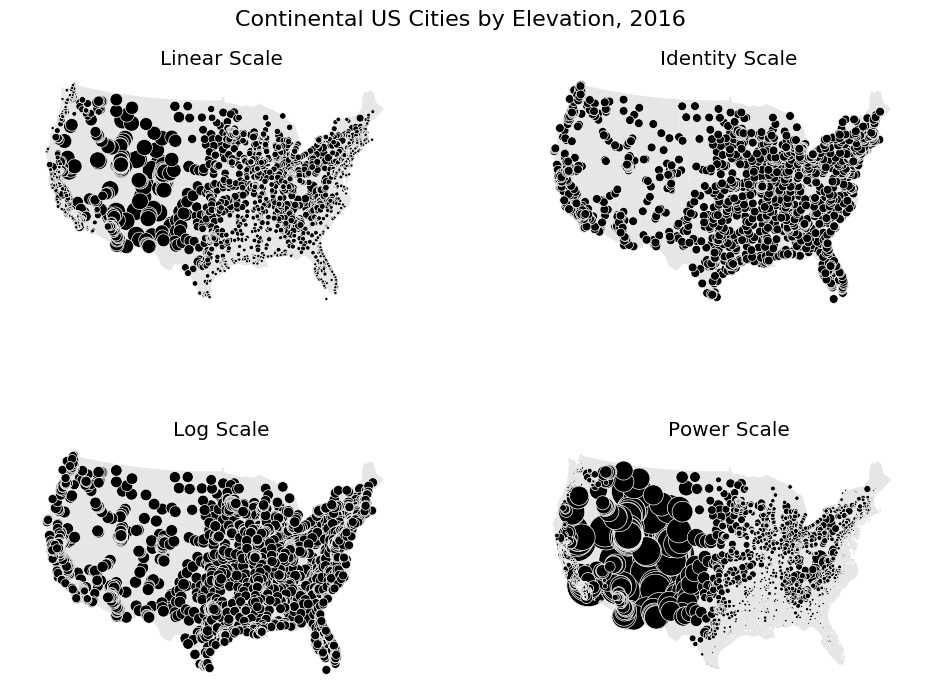
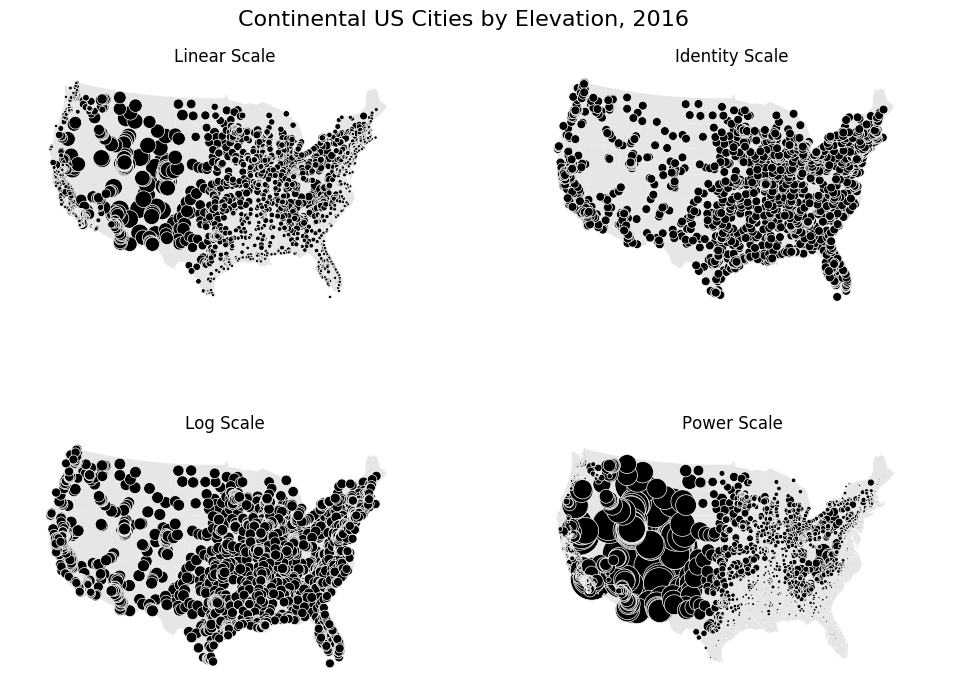
Use quilt to manage package data.

diff --git a/docs/examples/usa-city-elevations.py b/docs/examples/usa-city-elevations.py
@@ -1,20 +1,20 @@
-import sys; sys.path.insert(0, '../')
-import geoplot as gplt
-import geoplot.crs as gcrs
-import numpy as np
-import matplotlib.pyplot as plt
-
 # This example plots United States cities by their elevation. Several different possible scaling functions for
 # determining point size are demonstrated.
 
 
-# Shape the data.
-import pdb; pdb.set_trace()
-cities = gplt.datasets.load('usa-cities')
-continental_usa = gplt.datasets.load('contiguous-usa')
+# Load the data.
+import geopandas as gpd
+from quilt.data.ResidentMario import geoplot_data
+
+cities = gpd.read_file(geoplot_data.usa_cities())
+contiguous_usa = gpd.read_file(geoplot_data.contiguous_usa())
 
 
 # Plot the data.
+import geoplot as gplt
+import geoplot.crs as gcrs
+import numpy as np
+import matplotlib.pyplot as plt
 
 f, axarr = plt.subplots(2, 2, figsize=(12, 8), subplot_kw={
     'projection': gcrs.AlbersEqualArea(central_longitude=-98, central_latitude=39.5)
@@ -33,7 +33,7 @@ ylim = (-1647757.3894385984, 1457718.4893930717)
 
 # Our first plot is a default linear-scale one. We can see from the results that this is clearly the most appropriate
 # one for this specific data.
-gplt.polyplot(continental_usa.geometry, ax=axarr[0][0], **polyplot_kwargs)
+gplt.polyplot(contiguous_usa.geometry, ax=axarr[0][0], **polyplot_kwargs)
 gplt.pointplot(cities.query("POP_2010 > 10000"), ax=axarr[0][0], limits=(0.1, 10), **pointplot_kwargs)
 axarr[0][0].set_title("Linear Scale")
 axarr[0][0].set_ylim(ylim)
@@ -45,7 +45,7 @@ def identity_scale(minval, maxval):
         return 2
     return scalar
 
-gplt.polyplot(continental_usa.geometry, ax=axarr[0][1], **polyplot_kwargs)
+gplt.polyplot(contiguous_usa.geometry, ax=axarr[0][1], **polyplot_kwargs)
 gplt.pointplot(cities.query("POP_2010 > 10000"), ax=axarr[0][1], scale_func=identity_scale, **pointplot_kwargs)
 axarr[0][1].set_title("Identity Scale")
 axarr[0][1].set_ylim(ylim)
@@ -62,7 +62,7 @@ def log_scale(minval, maxval):
         return np.log10(val)
     return scalar
 
-gplt.polyplot(continental_usa.geometry, ax=axarr[1][0], **polyplot_kwargs)
+gplt.polyplot(contiguous_usa.geometry, ax=axarr[1][0], **polyplot_kwargs)
 gplt.pointplot(cities.query("POP_2010 > 10000"), ax=axarr[1][0], scale_func=log_scale, **pointplot_kwargs)
 axarr[1][0].set_title("Log Scale")
 axarr[1][0].set_ylim(ylim)
@@ -77,7 +77,7 @@ def power_scale(minval, maxval):
         return (val/1000)**2
     return scalar
 
-gplt.polyplot(continental_usa.geometry, ax=axarr[1][1], **polyplot_kwargs)
+gplt.polyplot(contiguous_usa.geometry, ax=axarr[1][1], **polyplot_kwargs)
 gplt.pointplot(cities.query("POP_2010 > 10000"), ax=axarr[1][1], scale_func=power_scale, **pointplot_kwargs)
 axarr[1][1].set_title("Power Scale")
 axarr[1][1].set_ylim(ylim)

diff --git a/docs/examples/obesity.py b/docs/examples/obesity.py
@@ -1,17 +1,12 @@
-import sys; sys.path.insert(0, '../')
-import geoplot as gplt
-import geoplot.crs as gcrs
-import matplotlib.pyplot as plt
-
-
 # This examples was inspired by https://bl.ocks.org/mbostock/4055908
 
-# Shape the data.
-obesity = gplt.datasets.load('obesity-by-state')
-# usa = gpd.read_file("../../data/united_states/usa.geojson")
-# continental_usa = usa[~usa['adm1_code'].isin(['USA-3517', 'USA-3563'])]
-continental_usa = gplt.datasets.load('contiguous-usa')
-continental_usa['State'] = [
+# Load the data.
+import geopandas as gpd
+from quilt.data.ResidentMario import geoplot_data
+
+obesity = geoplot_data.obesity_by_state()
+contiguous_usa = gpd.read_file(geoplot_data.contiguous_usa())
+contiguous_usa['State'] = [
     'Minnesota', 'Montana', 'North Dakota', 'Idaho', 'Washington', 'Arizona',
     'California', 'Colorado', 'Nevada', 'New Mexico', 'Oregon', 'Utah', 'Wyoming',
     'Arkansas', 'Iowa', 'Kansas', 'Missouri', 'Nebraska', 'Oklahoma', 'South Dakota',
@@ -21,13 +16,17 @@ continental_usa['State'] = [
     'Tennessee', 'Virginia', 'Wisconsin', 'West Virginia', 'Delaware', 'District of Columbia',
     'Maryland', 'New Jersey', 'New York', 'Pennsylvania', 'Maine', 'Michigan'
 ]
-continental_usa['Obesity Rate'] = continental_usa['State'].map(
+contiguous_usa['Obesity Rate'] = contiguous_usa['State'].map(
     lambda state: obesity.query("State == @state").iloc[0]['Percent']
 )
 
 
 # Plot the data.
-ax = gplt.cartogram(continental_usa, scale='Obesity Rate',
+import geoplot as gplt
+import geoplot.crs as gcrs
+import matplotlib.pyplot as plt
+
+ax = gplt.cartogram(contiguous_usa, scale='Obesity Rate',
                     projection=gcrs.AlbersEqualArea(central_longitude=-98, central_latitude=39.5),
                     limits=(0.75, 1),
                     linewidth=0.5, facecolor='steelblue', trace_kwargs={'linewidth': 0.5})

diff --git a/docs/examples/nyc-parking-tickets.py b/docs/examples/nyc-parking-tickets.py
@@ -1,21 +1,23 @@
-import sys; sys.path.insert(0, '../')
-import geoplot as gplt
-import geoplot.crs as gcrs
-import matplotlib.pyplot as plt
+# Load the data.
+import geopandas as gpd
+from quilt.data.ResidentMario import geoplot_data
 
+boroughs = gpd.read_file(geoplot_data.nyc_boroughs())
+precincts = gpd.read_file(geoplot_data.nyc_police_precincts())
+tickets = gpd.read_file(geoplot_data.nyc_parking_tickets_sample())
 
 # This example inspired by:
 # http://iquantny.tumblr.com/post/84393789169/californians-love-brooklyn-new-jerseyans-love
 
 
-# Load the data.
-precincts = gplt.datasets.load('nyc-police-precincts')
-tickets = gplt.datasets.load('nyc-parking-tickets-sample')
-boroughs = gplt.datasets.load('nyc-boroughs')
+# Plot the data.
+import geoplot as gplt
+import geoplot.crs as gcrs
+import matplotlib.pyplot as plt
 
 
-# This function is a reusable wrapper for plotting the data.
 def plot_state_to_ax(state, ax):
+    """Reusable plotting wrapper."""
     gplt.choropleth(tickets.set_index('id').loc[:, [state, 'geometry']],
                     hue=state,
                     projection=gcrs.AlbersEqualArea(), cmap='Blues',

diff --git a/docs/examples/minard-napoleon-russia.py b/docs/examples/minard-napoleon-russia.py
@@ -1,16 +1,17 @@
-import sys; sys.path.insert(0, '../../')
+# Load the data.
+import geopandas as gpd
+from quilt.data.ResidentMario import geoplot_data
+
+troop_movements = gpd.read_file(geoplot_data.napoleon_troop_movements())
+troop_movements['from'] = troop_movements.geometry.map(lambda v: v[0])
+troop_movements['to'] = troop_movements.geometry.map(lambda v: v[1])
+
+
+# Plot the data. We'll use a custom colormap, to match the one that Minard uses.
 import geoplot as gplt
 import matplotlib.pyplot as plt
 import mplleaflet
 
-
-# Shape the data.
-import pdb; pdb.set_trace()
-troop_movements = gplt.datasets.load('napoleon-troop-movements')
-troop_movements['from'] = troop_movements.geometry.map(lambda v: v[0])
-troop_movements['to'] = troop_movements.geometry.map(lambda v: v[1])
-
-# Plot the data. We'll use a custom colormap, to match the one that Minard uses.
 from matplotlib.colors import LinearSegmentedColormap
 colors = [(215/255, 193/255, 126/255), (37/255, 37/255, 37/255)]
 cm = LinearSegmentedColormap.from_list('minard', colors)

diff --git a/docs/examples/los-angeles-flights.py b/docs/examples/los-angeles-flights.py
@@ -1,23 +1,25 @@
-import sys; sys.path.insert(0, '../')
-import geoplot as gplt
-import geoplot.crs as gcrs
-import pandas as pd
-import matplotlib.pyplot as plt
-import cartopy
-
 
 # This script demonstrates using the cartopy feature interface alongside geoplot.
 # For more information visit http://scitools.org.uk/cartopy/docs/latest/matplotlib/feature_interface.html.
 
 
-# Fetch the data.
-la_flights = gplt.datasets.load('la-flights')
+# Load the data.
+import geopandas as gpd
+from quilt.data.ResidentMario import geoplot_data
+
+la_flights = gpd.read_file(geoplot_data.la_flights())
 la_flights = la_flights.assign(
     start=la_flights.geometry.map(lambda mp: mp[0]),
     end=la_flights.geometry.map(lambda mp: mp[1])
 )
 
+
 # Plot the data.
+import geoplot as gplt
+import geoplot.crs as gcrs
+import matplotlib.pyplot as plt
+import cartopy
+
 f, axarr = plt.subplots(2, 2, figsize=(12, 12), subplot_kw={
     'projection': gcrs.Orthographic(central_latitude=40.7128, central_longitude=-74.0059)
 })

diff --git a/docs/examples/boston-airbnb-aggplot.py b/docs/examples/boston-airbnb-aggplot.py
@@ -1,19 +1,20 @@
-import sys; sys.path.insert(0, '../')
-import geoplot.crs as gcrs
-import geoplot as gplt
-import numpy as np
-import matplotlib.pyplot as plt
-
-
 # Load the data.
-boston_zip_codes = gplt.datasets.load('boston-zip-codes')
+from quilt.data.ResidentMario import geoplot_data
+import geopandas as gpd
+
+boston_zip_codes = gpd.read_file(geoplot_data.boston_zip_codes())
 boston_zip_codes = boston_zip_codes.assign(id=boston_zip_codes.id.astype(float)).set_index('id')
 
-listings = gplt.datasets.load('boston-airbnb-listings')
+listings = gpd.read_file(geoplot_data.boston_airbnb_listings())
 listings = listings.assign(zipcode=listings.zipcode.astype(float))
 
 
 # Plot the data.
+import geoplot as gplt
+import geoplot.crs as gcrs
+import numpy as np
+import matplotlib.pyplot as plt
+
 ax = gplt.polyplot(boston_zip_codes.geometry, projection=gcrs.AlbersEqualArea(),
                    facecolor='lightgray', edgecolor='gray', linewidth=0)
 

diff --git a/docs/examples/nyc-collisions-map.py b/docs/examples/nyc-collisions-map.py
@@ -1,17 +1,17 @@
-import sys; sys.path.insert(0, '../../')
+# Load the data.
 import geopandas as gpd
-import geoplot as gplt
-import geoplot.crs as gcrs
-import pandas as pd
-import matplotlib.pyplot as plt
-from shapely.geometry import Point
+from quilt.data.ResidentMario import geoplot_data
 
-# Fetch the data.
-boroughs = gplt.datasets.load('nyc-boroughs')
-fatal_collisions = gplt.datasets.load('nyc-fatal-collisions')
-injurious_collisions = gplt.datasets.load('nyc-injurious-collisions')
+boroughs = gpd.read_file(geoplot_data.nyc_boroughs())
+fatal_collisions = gpd.read_file(geoplot_data.nyc_fatal_collisions())
+injurious_collisions = gpd.read_file(geoplot_data.nyc_injurious_collisions())
+
 
 # Plot the data.
+import geoplot as gplt
+import geoplot.crs as gcrs
+import matplotlib.pyplot as plt
+
 fig = plt.figure(figsize=(10,5))
 
 ax1 = plt.subplot(121, projection=gcrs.AlbersEqualArea(central_latitude=40.7128, central_longitude=-74.0059))

diff --git a/docs/examples/dc-street-network.py b/docs/examples/dc-street-network.py
@@ -1,20 +1,15 @@
-import sys; sys.path.insert(0, '../')
-import geoplot as gplt
-import geoplot.crs as gcrs
-import geopandas as gpd
-import matplotlib.pyplot as plt
-
-
-# The data being used here is the DC portion of the Federal Highway Administration's roadway traffic volume
-# shapefiles, retrieved from http://www.fhwa.dot.gov/policyinformation/hpms/shapefiles.cfm. The AADT column of
-# interest here is the FHA's traffic volume estimates.
-
-
 # Load the data.
-dc = gplt.datasets.load('dc-roads')
+import geopandas as gpd
+from quilt.data.ResidentMario import geoplot_data
+
+dc = gpd.read_file(geoplot_data.dc_roads())
 
 
 # Plot the data.
+import geoplot as gplt
+import geoplot.crs as gcrs
+import matplotlib.pyplot as plt
+
 ax = gplt.sankey(dc, path=dc.geometry, projection=gcrs.AlbersEqualArea(), scale='aadt',
                  limits=(0.1, 10))
 plt.title("Streets in Washington DC by Average Daily Traffic, 2015")

diff --git a/docs/examples/largest-cities-usa.py b/docs/examples/largest-cities-usa.py
@@ -1,15 +1,16 @@
-import sys; sys.path.insert(0, '../../')
-import geoplot as gplt
-import geoplot.crs as gcrs
+# Load the data.
 import geopandas as gpd
-import matplotlib.pyplot as plt
+from quilt.data.ResidentMario import geoplot_data
 
+continental_cities = gpd.read_file(geoplot_data.usa_cities()).query('POP_2010 > 100000')
+continental_usa = gpd.read_file(geoplot_data.contiguous_usa())
 
-# Shape the data.
-continental_cities = gplt.datasets.load('usa-cities').query('POP_2010 > 100000')
-continental_usa = gplt.datasets.load('contiguous-usa')
 
 # Plot the figure.
+import geoplot as gplt
+import geoplot.crs as gcrs
+import matplotlib.pyplot as plt
+
 poly_kwargs = {'linewidth': 0.5, 'edgecolor': 'gray', 'zorder': -1}
 point_kwargs = {'linewidth': 0.5, 'edgecolor': 'black', 'alpha': 1}
 legend_kwargs = {'bbox_to_anchor': (1.2, 0.9), 'frameon': False}

diff --git a/docs/examples/nyc-collision-factors.py b/docs/examples/nyc-collision-factors.py
@@ -1,19 +1,16 @@
-import sys; sys.path.insert(0, '../')
-import geoplot.crs as gcrs
-import geoplot as gplt
-import pandas as pd
-import geopandas as gpd
-from shapely.geometry import Point
-import matplotlib.pyplot as plt
-import shapely
-
-
 # Load the data.
-boroughs = gplt.datasets.load('nyc-boroughs')
-collisions = gplt.datasets.load('nyc-collision-factors')
+import geopandas as gpd
+from quilt.data.ResidentMario import geoplot_data
+
+boroughs = gpd.read_file(geoplot_data.nyc_boroughs())
+collisions = gpd.read_file(geoplot_data.nyc_collision_factors())
 
 
 # Plot the data.
+import geoplot.crs as gcrs
+import geoplot as gplt
+import matplotlib.pyplot as plt
+
 fig = plt.figure(figsize=(10,5))
 
 ax1 = plt.subplot(121, projection=gcrs.AlbersEqualArea(central_latitude=40.7128, central_longitude=-74.0059))

diff --git a/docs/examples/ny-state-demographics.py b/docs/examples/ny-state-demographics.py
@@ -1,16 +1,16 @@
-import sys; sys.path.insert(0, '../')
-import geoplot.crs as gcrs
-import geoplot as gplt
-import geopandas as gpd
-import matplotlib.pyplot as plt
-
-
 # Load the data.
-census_tracts = gplt.datasets.load('ny-census-partial')
+import geopandas as gpd
+from quilt.data.ResidentMario import geoplot_data
+
+census_tracts = gpd.read_file(geoplot_data.ny_census_partial())
 percent_white = census_tracts['WHITE'] / census_tracts['POP2000']
 
 
 # Plot the data.
+import geoplot.crs as gcrs
+import geoplot as gplt
+import matplotlib.pyplot as plt
+
 gplt.choropleth(census_tracts, hue=percent_white, projection=gcrs.AlbersEqualArea(),
                 cmap='Purples', linewidth=0.5, edgecolor='white', k=None, legend=True)
 plt.title("Percentage White Residents, 2000")

diff --git a/docs/examples/boston-airbnb-kde.py b/docs/examples/boston-airbnb-kde.py
@@ -1,18 +1,14 @@
-import sys; sys.path.insert(0, '../')
-import geoplot as gplt
+# Load the data.
+from quilt.data.ResidentMario import geoplot_data
 import geopandas as gpd
-import pandas as pd
-from shapely.geometry import Point
-import shapely
-import matplotlib.pyplot as plt
-import mplleaflet
 
-
-# Shape the data.
-listings = gplt.datasets.load('boston-airbnb-listings')
+listings = gpd.read_file(geoplot_data.boston_airbnb_listings())
 
 
 # Plot the data.
+import geoplot as gplt
+import matplotlib.pyplot as plt
+import mplleaflet
 
 # We're building a webmap, so we'll first create an unprojected map.
 ax = gplt.kdeplot(listings)
